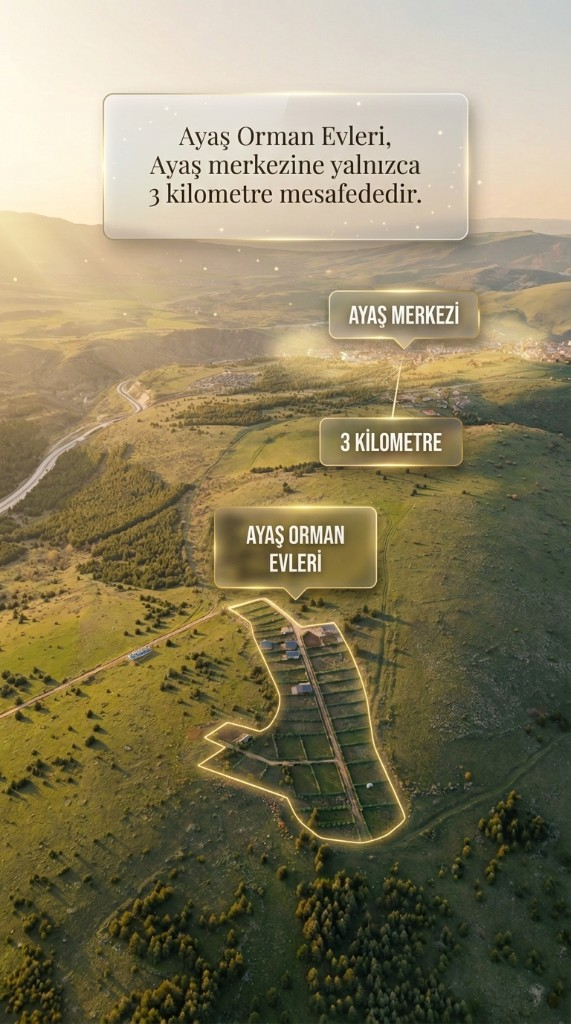
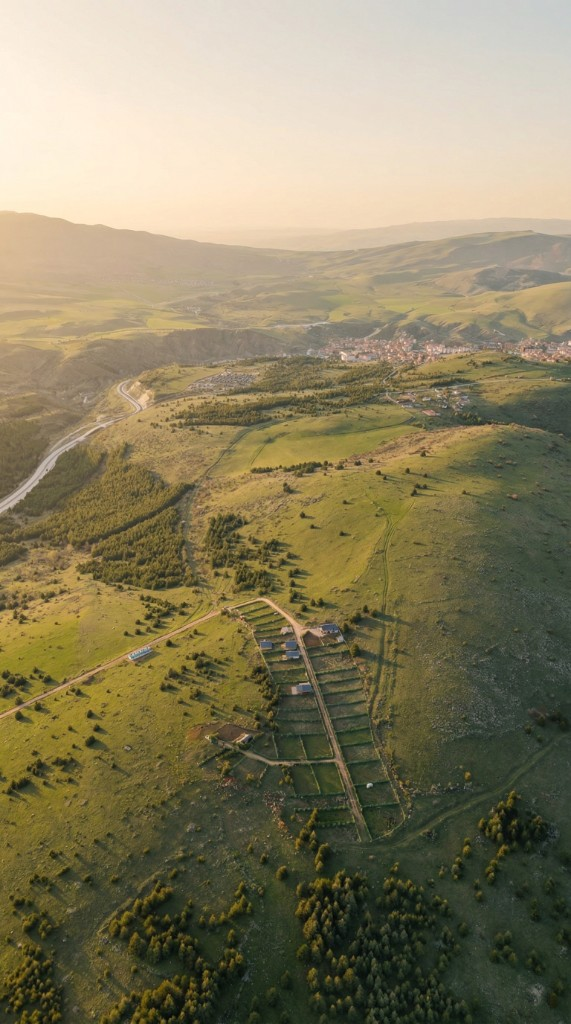
fix: Ayas galerisi 11 duplike gorsel temizlendi, 18 benzersiz gorsel kaldi
Made-with: Cursor

diff --git a/src/data/projects.ts b/src/data/projects.ts
@@ -144,7 +144,7 @@ export const projects: Project[] = [
     status: "satışta",
     coverImage: "/images/projects/ayas-orman-evleri.png",
     heroImage: "/images/projects/ayas-orman-evleri-hero.png",
-    gallery: Array.from({ length: 29 }, (_, i) =>
+    gallery: Array.from({ length: 18 }, (_, i) =>
       `/images/projects/ayas-gallery/${String(i + 1).padStart(2, "0")}.png`
     ),
   },
